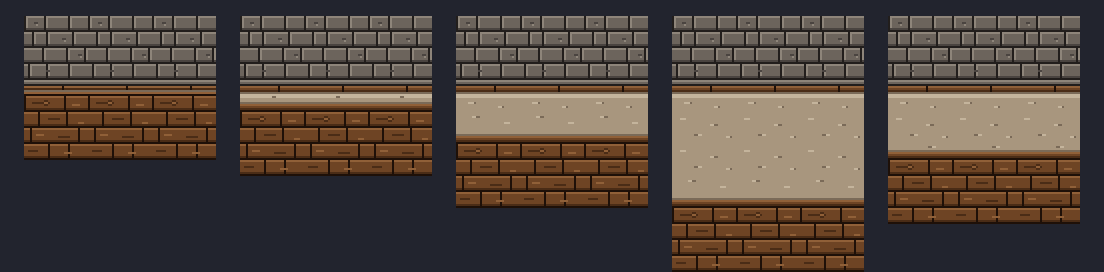
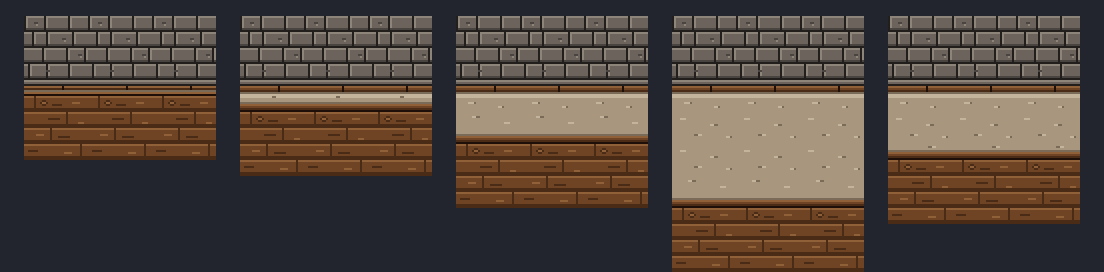
tile.wood: plank floor instead of brick look (human-approved)
Only tile.wood changes (the other 110 terrain PNGs are byte-identical). Seams tone 0 #1e1008 -> tone 1
#4a2c16 (inspection option A), and long boards: one end joint per row per tile, staggered (5/21/13/28);
grain and knot moved off the joints. Roughness 10.4 -> 6.9. Same size, wraps, alpha 0/255, wood ramp.
Generated by tools/terrain_release (WOOD_SEAM, WOOD_ROWS). PRODUCTION.md notes the approved change.

Claude-Session: https://claude.ai/code/session_01VbGyibjwGmxCJ2yW5ydLfW

diff --git a/tools/terrain_release/release_ground.py b/tools/terrain_release/release_ground.py
@@ -282,14 +282,20 @@ def ruin_floor():
 # ---------------------------------------------------------------------------------------------
 # Wood floor (wood): boards 8 px tall, joints staggered per row, grain marks, a knot.
 # ---------------------------------------------------------------------------------------------
-WOOD_ROWS = [(0, 8, 0, [20, 12]), (8, 8, 7, [14, 18]), (16, 8, 3, [24, 8]), (24, 8, 12, [10, 22])]
-GRAIN = [(4, 3, 5, 1), (24, 4, 4, 3), (12, 11, 6, 1), (27, 13, 3, 3), (6, 19, 4, 3), (17, 20, 6, 1), (2, 27, 5, 1),
+# Long boards: one end joint per row in a tile, staggered (short boards in staggered rows read as bricks).
+WOOD_ROWS = [(0, 8, 5, [32]), (8, 8, 21, [32]), (16, 8, 13, [32]), (24, 8, 28, [32])]
+GRAIN = [(14, 4, 5, 1), (24, 3, 4, 3), (12, 11, 6, 1), (27, 13, 3, 3), (6, 19, 4, 3), (17, 20, 6, 1), (2, 27, 5, 1),
          (20, 28, 4, 3)]  # (x, y, length, tone)
 KNOT = [
     ".11.",
     "1331",
     ".11.",
 ]
+
+
+# Plank seams use tone 1, not 0 (approved by the human, art/inn-floor): with near-black seams (0 =
+# #1e1008, 18 % of the tile) and short boards the darkened interior floor read as a brick wall in the game.
+WOOD_SEAM = 1
 
 
 def wood_floor():
@@ -300,14 +306,14 @@ def wood_floor():
             for k in range(w):
                 t.put(x + k, y0, "wood", 3)
                 t.put(x + k, y0 + hgt - 2, "wood", 1)
-                t.put(x + k, y0 + hgt - 1, "wood", 0)
+                t.put(x + k, y0 + hgt - 1, "wood", WOOD_SEAM)
             for y in range(y0, y0 + hgt - 1):
-                t.put(x, y, "wood", 0)
+                t.put(x, y, "wood", WOOD_SEAM)
             x += w
     for x, y, n, tn in GRAIN:
         for k in range(n):
             t.put(x + k, y, "wood", tn)
-    t.stamp(9, 2, KNOT, tones("wood"))
+    t.stamp(8, 2, KNOT, tones("wood"))
     return t
 
 

diff --git a/docs/art-release/terrain/PRODUCTION.md b/docs/art-release/terrain/PRODUCTION.md
@@ -39,7 +39,7 @@
 | 絵 | 描き方 |
 |---|---|
 | `tile.ruin` | 遺跡の石（ruin.stone）の大きな石板。段ごとに継ぎ目をずらす。上と左のふちが明るい。1 枚しか無いマスなので、目立つ印（割れ目・彫った線）は格子に見えたのでやめ、小さなひびとすり減りだけ |
-| `tile.wood` | 板（wood）を 8 ドットの段に。継ぎ目を段ごとにずらし、木目の線と節を 1 つ |
+| `tile.wood` | 長い板（wood）を 8 ドットの段に。板の端の継ぎ目は 1 枚の中で 1 段に 1 つ、段ごとに位置をずらす。継ぎ目は 1 番（`#4a2c16`）。木目の線と節を 1 つ（下の「`tile.wood` の直し」） |
 | `tile.metal` | 鉄（iron）の 16 ドットの板 4 枚。継ぎ目の上と左が光る。2×2 のびょう、斜めの光の線（電気を通す床とわかるように金属らしく） |
 | `tile.pit` | 穴。上の 5〜7 ドットが向こう側の土の壁（earth.face、上のふちが光る）、その下は真っ暗（cave.rock 0）に暗いほこりが少し |
 | `tile.dark` | 部屋の外（何もない所）。cave.rock の 0 番 1 色 |
@@ -186,6 +186,19 @@
 | 23 | 5 つの地面の上で埋もれない | 合格（`objects_on_grounds.png`：草・砂・雪・水・床の上で木と物の輪郭が見える） |
 | 25〜27 | 1 倍で分かる・シルエット・点の散らばりなし | 合格。模様は 2〜5 ドットのまとまり |
 | 19・20・22・24・28・29 | 人物・敵・触れる物・アイコンの項目 | 地形には当てはまらない |
+
+## `tile.wood` の直し（ブランチ `art/inn-floor`、**人の承認ずみ**）
+
+承認ずみの絵のうち `tile.wood`（宿・長老の家・料理番の家・雑貨屋の床）**1 枚だけ**を、人の承認を得て直しました（統合の確認 `inspect_terrain_integration.md` の 2）。
+
+- 前：板の継ぎ目（横の段の境目と板の端）がほぼ黒の 0 番 `#1e1008`（全体の 18%）。板は 8〜24 ドットの短い板を段ごとにずらした並び。ゲームの中で暗くされると**レンガの壁のように見えた**（ざらつき 10.4）
+- 後：
+  1. 継ぎ目を 0 番から 1 番 `#4a2c16` に（確認係の案 A。色は同じ wood ランプの中）
+  2. 板を長くした：1 枚（32 ドット）の中で各段の板の端の継ぎ目は 1 つだけ。位置は段ごとに 5・21・13・28 ドット目にずらす。案 A だけだとまだ短い板が段ごとにずれてレンガ風に見えたため。木目の線と節は継ぎ目と重ならない場所に移した
+- 結果：ざらつき **6.9**（前 10.4）。板は段の境目（2 行の 1 番）と板の端で 1 枚ずつ分かれて見え、レンガには見えない。4×4 に並べてもつなぎ目なし（`repeat/repeat_tile.wood.png`、テストも合格）
+- 大きさ 32×32・全面不透明・アルファ 0/255・ランプの色だけ、は前と同じ
+- **ほかの 110 枚は 1 バイトも変わっていない**（作り直して前のファイルと `cmp` で比べた）
+- 前と後の比べ：`/tmp/claude-0/-home-user-my-jrpg-game/b046b55c-c649-5668-ab0a-0dc53b730c1c/scratchpad/team/v1terrain/inn_floor.png`（作業用の場所。リポジトリには入れていない）（6×4 枚＋主人公を 3 倍と 1 倍、0.8 倍に暗くした見え方、ゲームの宿の画面）
 
 ## 残っている問題・決めてほしいこと
 
